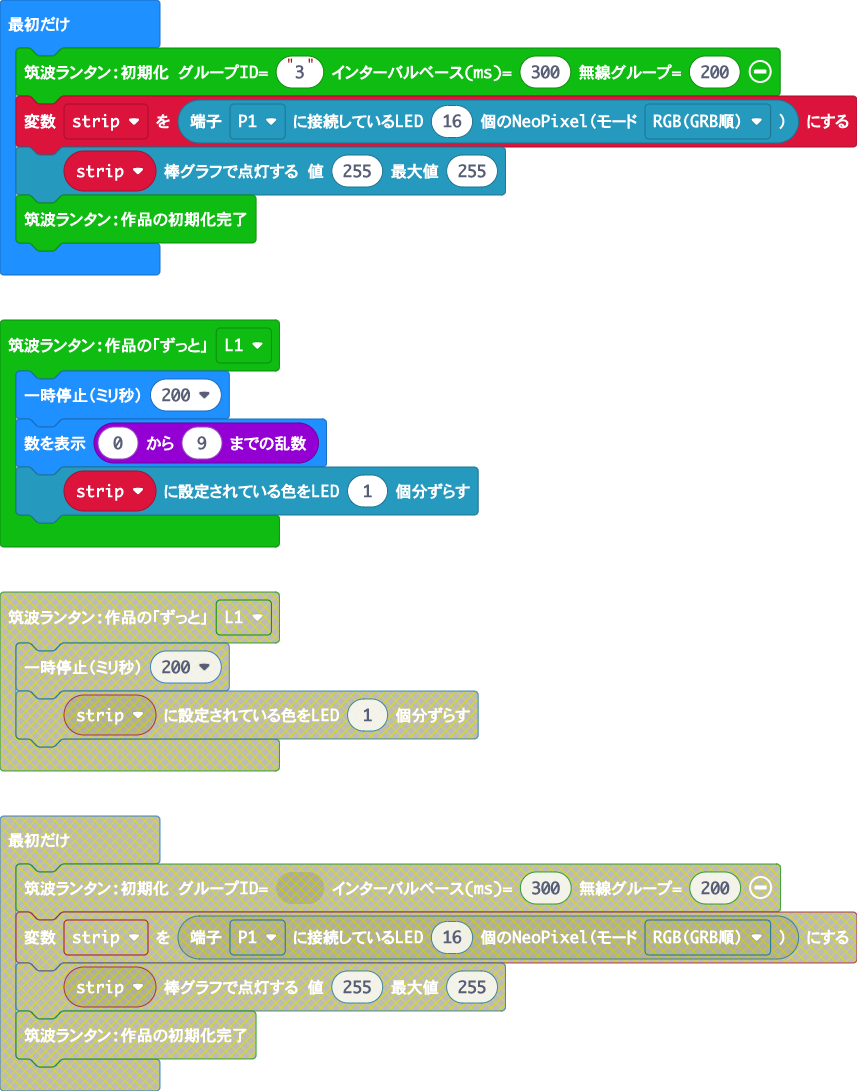
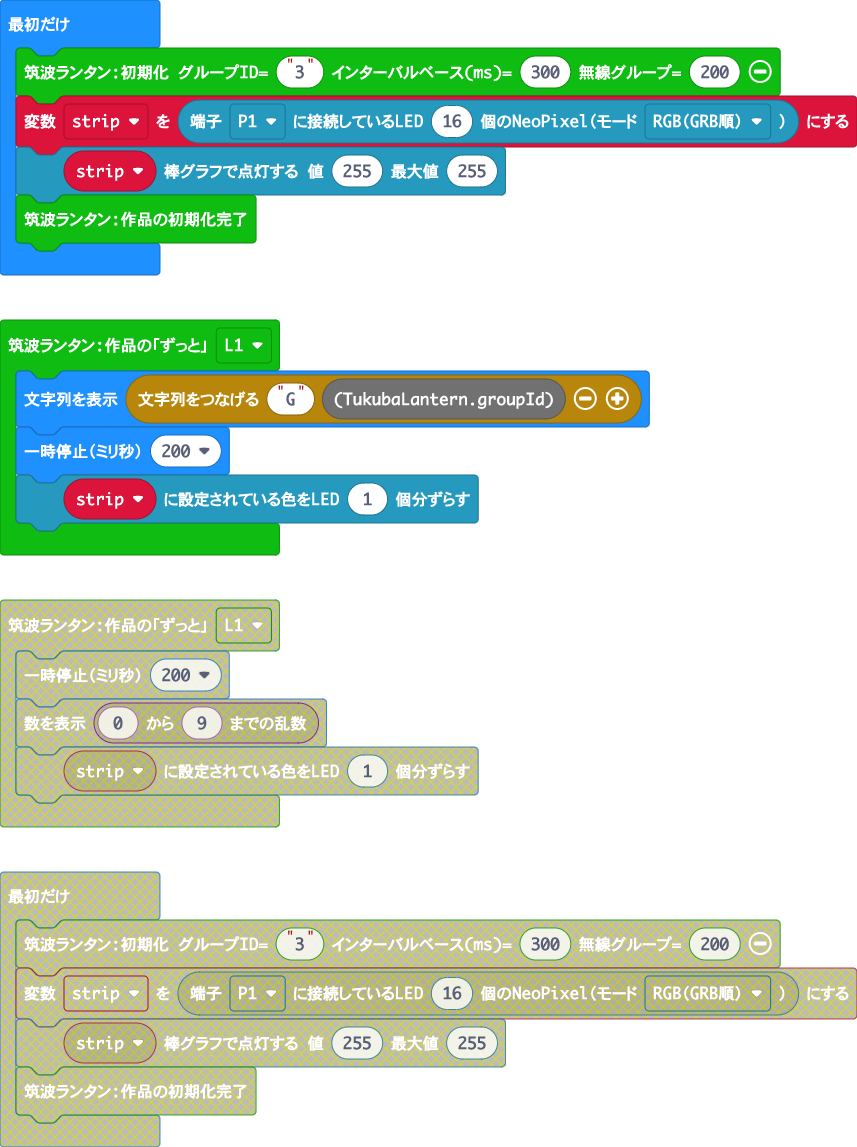
自分以外のグループIDにも反応してしまっていたのを修正

diff --git a/custom.ts b/custom.ts
@@ -16,12 +16,12 @@ namespace TukubaLantern {
     let playStarted = false;
     let stripPMode: neopixel.Strip = null
     let userInits: Array<() => void> = []
-    let mode: "U" | "P" = "U"
-    let groupId: string = "1"
-    let radioGroup: number = 200
-    let intervalBase: number = 300
-    let intervalN: number = 1;
-    let interval: number = intervalBase * intervalN;
+    export let mode: "U" | "P" = "U"
+    export let groupId: string = "1"
+    export let radioGroup: number = 200
+    export let intervalBase: number = 300
+    export let intervalN: number = 1;
+    export let interval: number = intervalBase * intervalN;
     let colors: Array<number> = [];
     let colorMap = [
         neopixel.rgb(0, 0, 0),
@@ -34,24 +34,32 @@ namespace TukubaLantern {
         neopixel.rgb(255, 255, 255),
     ]
 
-    function lanternRadioGroup(rg: number): void {
+    function lanternRadioGroup(rg: number) {
         radioGroup = Math.max(1, Math.min(255, Math.floor(rg)))
         radio.setGroup(radioGroup)
+        return radioGroup
     }
 
-    function lanternGroupID(g: string): void {
+    function lanternGroupID(g: string) {
         g = g.substr(0, 1)
         if (g.length == 1 && "123456789".includes(g)) {
             groupId = g
         } else {
             groupId = "1"
         }
+        return groupId
     }
 
-    function lanternIntervalBase(n: number): number {
+    function lanternIntervalBase(n: number) {
         intervalBase = Math.max(0, Math.min(5000, n))
         interval = intervalBase * intervalN
         return intervalBase
+    }
+
+    function lanternIntervalN(n: number) {
+        intervalN = n
+        interval = intervalBase * intervalN
+        return intervalN
     }
 
     //% blockId="lantern_init"
@@ -133,13 +141,13 @@ namespace TukubaLantern {
     //% weight=30
     export function inputData(data: string) {
         const c0 = data.substr(0, 1)
-        if (c0 === "P") {
+        if (c0 == "P") {
             stripPMode.showColor(neopixel.rgb(0, 0, 0))
             mode = "P"
             return
         }
-        if (c0 === "U") {
-            if (mode === "P") {
+        if (c0 == "U") {
+            if (mode == "P") {
                 // ユーザモードへの復帰はリセットで行う。
                 // リセットだけだとLEDが最後の状態のままになってしまうので消しておく
                 stripPMode.showColor(neopixel.rgb(0, 0, 0))
@@ -151,7 +159,7 @@ namespace TukubaLantern {
         }
         // 0 … 全てのグループが対象
         // 1-9 … 対象のランタングループ
-        if (c0 === "0" || c0 === groupId) {
+        if (c0 == "0" || c0 == groupId) {
             const c1 = data.substr(1, 1)
             if ("0123456789".includes(c1)) {
                 intervalN = Math.max(1, Math.min(9, parseInt(c1)))
@@ -159,12 +167,12 @@ namespace TukubaLantern {
                 intervalN = 1
             }
             interval = intervalBase * intervalN
+            // 現在プログラムモードだった場合に新しい色が消費されないようPモードを停止しておく
+            if (mode == "P") {
+                mode = "U"
+            }
+            colors = data.substr(2).split("").map(c => colorMap[parseInt(c)])
         }
-        // 現在プログラムモードだった場合に新しい色が消費されないようPモードを停止しておく
-        if (mode == "P") {
-            mode = "U"
-        }
-        colors = data.substr(2).split("").map(c => colorMap[parseInt(c)])
     }
 
     export enum UserLoops {

diff --git a/main.ts b/main.ts
@@ -4,7 +4,6 @@ input.onButtonPressed(Button.A, function () {
 })
 TukubaLantern.userLoop(TukubaLantern.UserLoops.L1, function () {
     basic.pause(200)
-    basic.showNumber(randint(0, 9))
     strip.shift(1)
 })
 input.onButtonPressed(Button.AB, function () {
